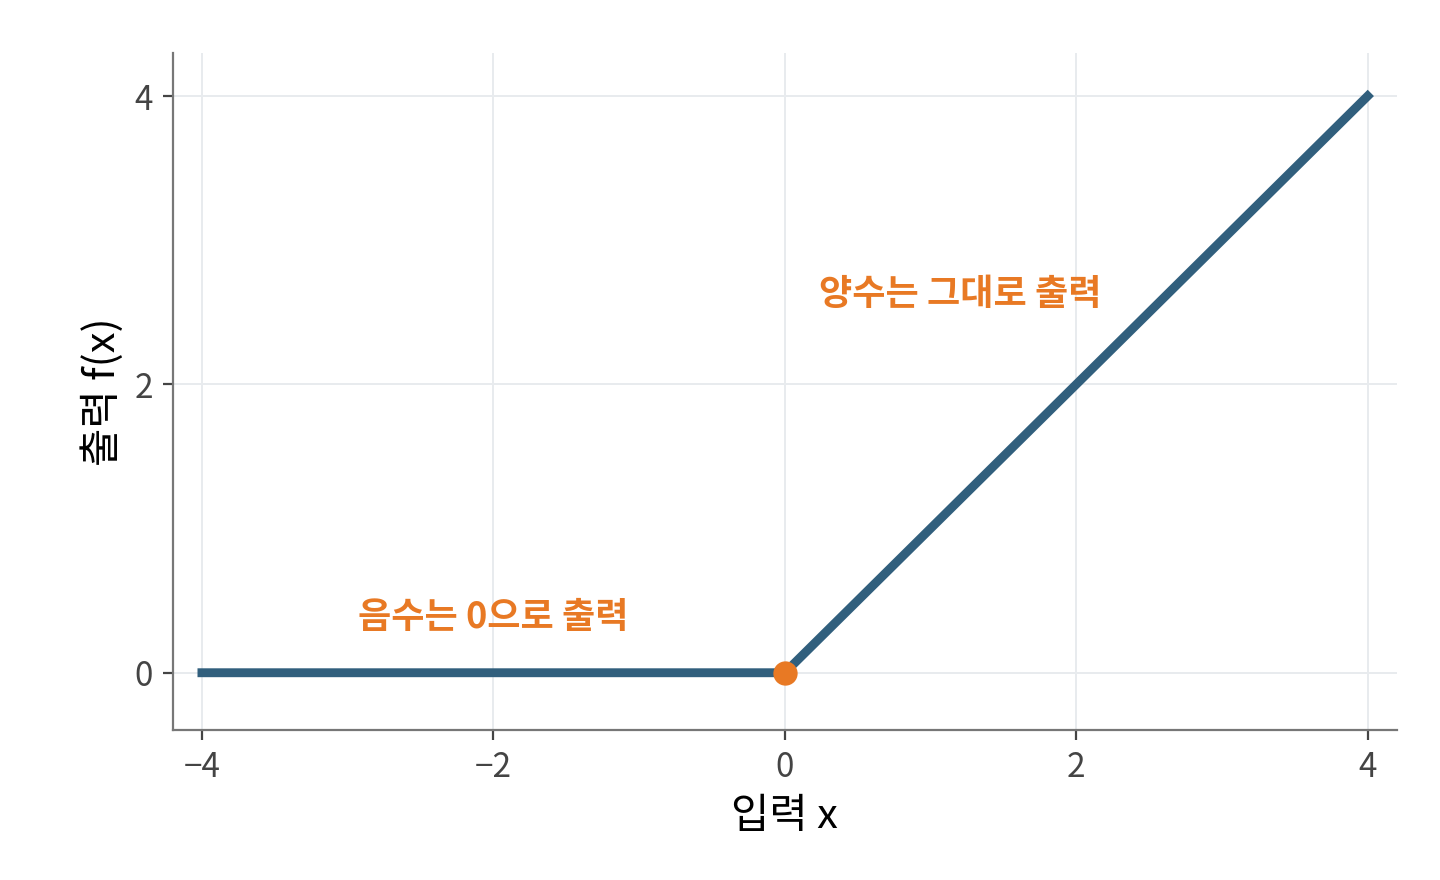
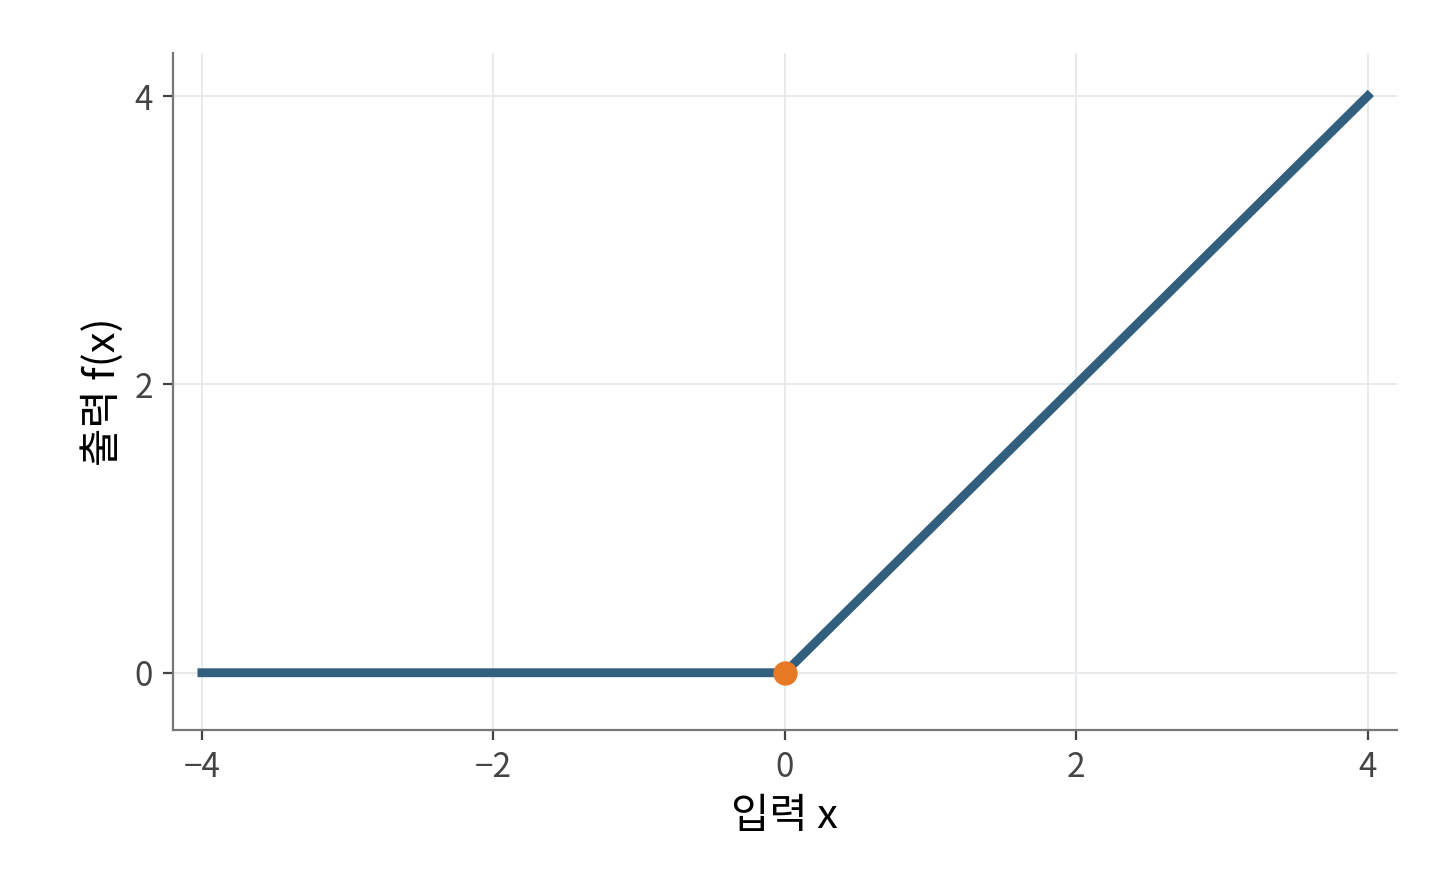
Remove colored annotations from ReLU graph

Changed region(s): [[0.5625, 0.3068, 0.7812, 0.3682], [0.25, 0.675, 0.4375, 0.7364]]

diff --git a/scripts/figures/ch07_relu.py b/scripts/figures/ch07_relu.py
@@ -27,11 +27,6 @@ def render():
     ax.plot(x, np.maximum(0, x), color=CURVE, linewidth=3.2, zorder=3)
     ax.scatter([0], [0], color=ORANGE, s=60, zorder=4)
 
-    ax.annotate("음수는 0으로 출력", (-2, 0), xytext=(0, 16), textcoords="offset points",
-                ha="center", fontsize=13, color=ORANGE, fontweight="bold")
-    ax.annotate("양수는 그대로 출력", (2.4, 2.4), xytext=(-12, 8), textcoords="offset points",
-                ha="right", fontsize=13, color=ORANGE, fontweight="bold")
-
     ax.set(xlim=(-4.2, 4.2), ylim=(-0.4, 4.3),
            xticks=[-4, -2, 0, 2, 4], yticks=[0, 2, 4],
            xlabel="입력 x", ylabel="출력 f(x)")
